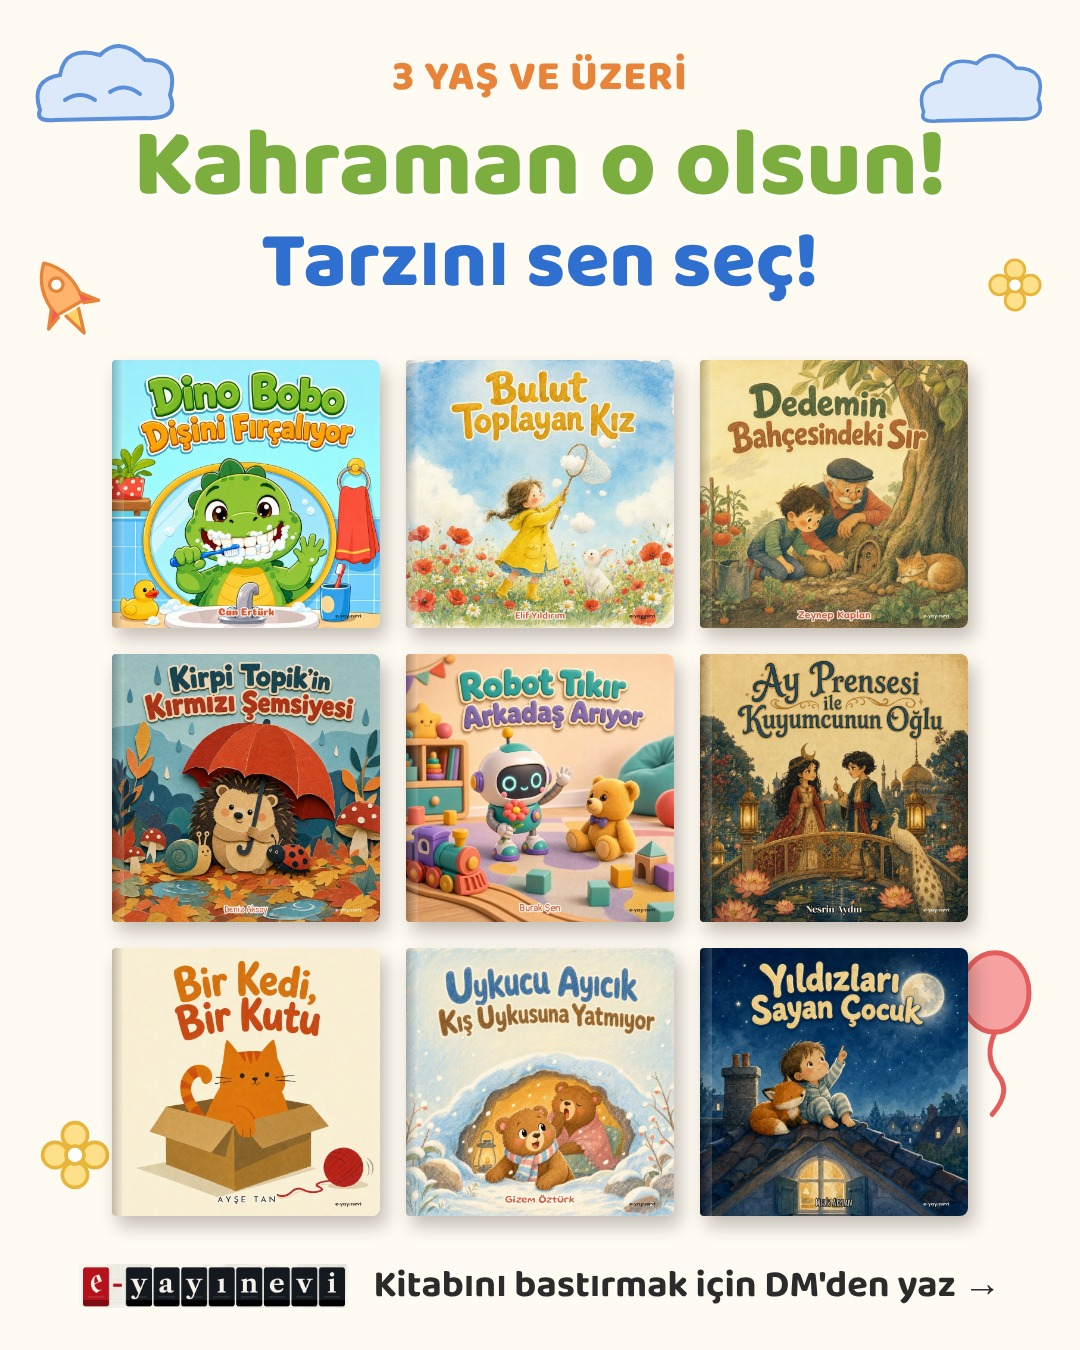
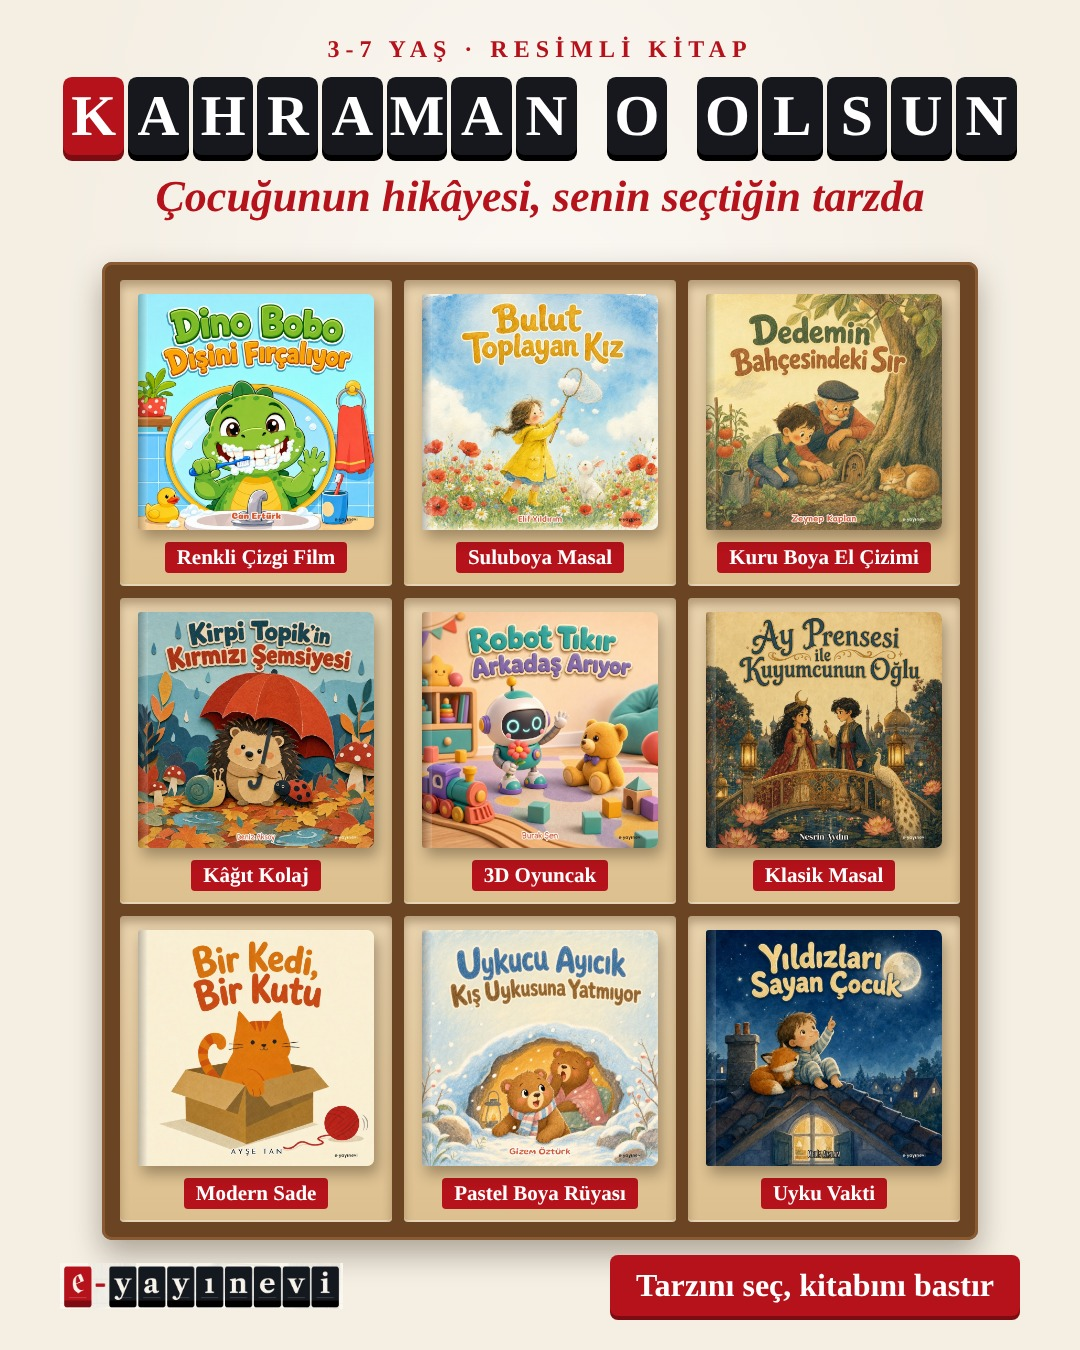
Vitrin: dizgi kasası tasarımı (harf blokları, tarz etiketleri)
Claude-Session: https://claude.ai/code/session_01CDkmKSZuDGcm7bYhjP6ExS

diff --git a/sablon/tarz/vitrin.py b/sablon/tarz/vitrin.py
@@ -14,20 +14,37 @@ DOODLES = """
 <svg style='position:absolute;right:40px;bottom:230px' width='90' height='170' viewBox='0 0 60 120' fill='none' stroke='#E45D5D' stroke-width='3.5' stroke-linecap='round'><ellipse cx='30' cy='30' rx='24' ry='28' fill='#F7A1A1'/><path d='M30 58 Q22 75 32 88 Q42 100 28 116'/></svg>
 <svg style='position:absolute;left:30px;bottom:150px' width='90' height='90' viewBox='0 0 100 100' stroke='#E8B53A' stroke-width='4' fill='#FFE08A'><circle cx='50' cy='28' r='14'/><circle cx='72' cy='50' r='14'/><circle cx='50' cy='72' r='14'/><circle cx='28' cy='50' r='14'/><circle cx='50' cy='50' r='10' fill='#fff'/></svg>
 <svg style='position:absolute;right:30px;top:250px' width='70' height='70' viewBox='0 0 100 100' stroke='#E8B53A' stroke-width='4' fill='#FFE08A'><circle cx='50' cy='28' r='14'/><circle cx='72' cy='50' r='14'/><circle cx='50' cy='72' r='14'/><circle cx='28' cy='50' r='14'/><circle cx='50' cy='50' r='10' fill='#fff'/></svg>"""
-def vitrin(kicker, line1, line2, slugs, foot="Kitabını bastırmak için DM'den yaz →"):
+def tiles(text, size, bg="#16181D", fg="#fff", red_first=False):
+    out = []
+    for i, ch in enumerate(text):
+        if ch == " ":
+            out.append(f"<span style='display:inline-block;width:{size*0.35}px'></span>"); continue
+        b = "#B5121B" if (red_first and i == 0) else bg
+        sh = "#7d0c12" if (red_first and i == 0) else "#000"
+        out.append(f"<span style='display:inline-flex;align-items:center;justify-content:center;width:{size*0.82}px;height:{size*1.05}px;margin:0 2px;background:{b};color:{fg};border-radius:{size*0.12}px;box-shadow:0 {size*0.08}px 0 {sh};font-family:\"Liberation Serif\",serif;font-weight:700;font-size:{size*0.78}px'>{ch}</span>")
+    return "".join(out)
+
+def vitrin(kicker, line1, line2, slugs, foot="Tarzını seç, kitabını bastır"):
+    """Dizgi kasası vitrini: ahşap kasanın gözlerinde kapaklar, altlarında tarz adı; başlık harf bloklarıyla."""
     sq = S[slugs[0]][4] == "3-7"
-    cols = 3; w = 268 if sq else 250; h = w if sq else round(w * 1.5)
-    gap = 26
-    covers = "".join(f"<div style='width:{w}px;height:{h}px;border-radius:4px 8px 8px 4px;overflow:hidden;box-shadow:6px 10px 18px rgba(40,30,20,.28);position:relative'><img src='{C}/kapak-{s}.jpg' style='width:100%;height:100%;object-fit:cover'><div style='position:absolute;left:0;top:0;bottom:0;width:12px;background:linear-gradient(to right,rgba(0,0,0,.22),rgba(255,255,255,.15))'></div></div>" for s in slugs)
-    return f"""<html><head><meta charset=utf-8><style>{FONT}*{{margin:0;box-sizing:border-box}}body{{width:1080px;height:1350px;background:#FFFBF2;position:relative;overflow:hidden;font-family:B,sans-serif}}</style></head><body>
-{DOODLES}
-<div style='position:absolute;top:44px;left:0;right:0;text-align:center'>
- <div style='font-size:42px;font-weight:800;color:#E8833A;letter-spacing:1px'>{kicker}</div>
- <div style='font-size:96px;font-weight:800;color:#7BAE3F;line-height:1;margin-top:8px;text-shadow:3px 3px 0 #fff'>{line1}</div>
- <div style='font-size:80px;font-weight:800;color:#2F6FCF;line-height:1.05;margin-top:6px'>{line2}</div>
+    w = 236 if sq else 244; h = w if sq else round(w * 1.5)
+    cell_w, cell_h = w + 36, h + 70
+    letters = len(line1.replace(" ", ""))
+    tsize = min(78, int(900 / max(letters, 1) / 0.86))
+    cells = "".join(
+        f"<div style='width:{cell_w}px;height:{cell_h}px;background:linear-gradient(#E9D3AE,#DDC08F);box-shadow:inset 0 6px 10px rgba(80,50,20,.35),inset 0 -2px 0 rgba(255,255,255,.4);border-radius:4px;display:flex;flex-direction:column;align-items:center;justify-content:flex-start;padding-top:14px'>"
+        f"<div style='width:{w}px;height:{h}px;border-radius:3px 7px 7px 3px;overflow:hidden;box-shadow:4px 8px 14px rgba(40,25,10,.35);position:relative'><img src='{C}/kapak-{s}.jpg' style='width:100%;height:100%;object-fit:cover'><div style='position:absolute;left:0;top:0;bottom:0;width:10px;background:linear-gradient(to right,rgba(0,0,0,.25),rgba(255,255,255,.15))'></div></div>"
+        f"<div style='margin-top:12px;background:#B5121B;color:#fff;font-family:\"Liberation Serif\",serif;font-weight:700;font-size:21px;padding:3px 12px;border-radius:4px;white-space:nowrap'>{S[s][0]}</div></div>"
+        for s in slugs)
+    return f"""<html><head><meta charset=utf-8><style>*{{margin:0;box-sizing:border-box}}body{{width:1080px;height:1350px;background:#F4EEE3;position:relative;overflow:hidden;font-family:"Liberation Serif",serif;color:#16181D}}</style></head><body>
+<div style='position:absolute;inset:0;background:radial-gradient(ellipse at 50% 30%,rgba(255,255,255,.65),transparent 65%)'></div>
+<div style='position:absolute;top:36px;left:0;right:0;text-align:center'>
+ <div style='font-size:24px;font-weight:700;letter-spacing:6px;color:#B5121B'>{kicker}</div>
+ <div style='margin-top:14px;white-space:nowrap'>{tiles(line1, tsize, red_first=True)}</div>
+ <div style='font-size:44px;font-style:italic;font-weight:700;color:#B5121B;margin-top:16px'>{line2}</div>
 </div>
-<div style='position:absolute;top:{360 if sq else 360}px;left:0;right:0;display:grid;grid-template-columns:repeat({cols},{w}px);gap:{gap}px;justify-content:center'>{covers}</div>
-<div style='position:absolute;bottom:34px;left:0;right:0;display:flex;align-items:center;justify-content:center;gap:24px'>
- <img src='{AS}/wordmark.png' style='height:44px'>
- <span style='font-size:38px;font-weight:700;color:#2B2B2B'>{foot}</span>
+<div style='position:absolute;top:{262 if sq else 268}px;left:50%;transform:translateX(-50%);padding:18px;background:#6B4423;border-radius:10px;box-shadow:0 14px 30px rgba(40,25,10,.35),inset 0 0 0 3px #8A5A33;display:grid;grid-template-columns:repeat(3,{cell_w}px);gap:12px'>{cells}</div>
+<div style='position:absolute;bottom:34px;left:60px;right:60px;display:flex;align-items:center;justify-content:space-between'>
+ <img src='{AS}/wordmark.png' style='height:46px'>
+ <span style='background:#B5121B;color:#fff;font-weight:700;font-size:32px;padding:12px 26px;border-radius:8px;box-shadow:0 4px 0 #7d0c12'>{foot}</span>
 </div></body></html>"""

diff --git a/sablon/tarz/vitrin_1107.py b/sablon/tarz/vitrin_1107.py
@@ -4,8 +4,8 @@ from vitrin import vitrin
 from playwright.sync_api import sync_playwright
 OUT = os.path.abspath(os.path.join(os.path.dirname(__file__), "../../2026-11/tarz"))
 J = {
- "v-37": vitrin("3 YAŞ VE ÜZERİ", "Kahraman o olsun!", "Tarzını sen seç!", ["renkli-cizgi-film","suluboya-masal","kuru-boya","kagit-kolaj","3d-oyuncak","klasik-masal","modern-sade","pastel-boya-ruyasi","uyku-vakti"]),
- "v-genc": vitrin("GENÇ VE YETİŞKİN OKURLAR", "Romanın hazır mı?", "Kapağını sen seç!", ["macera-cizgi-roman","sinematik","grafik-roman","gerilim","edebi-minimal","minyatur"]),
+ "v-37": vitrin("3-7 YAŞ · RESİMLİ KİTAP", "KAHRAMAN O OLSUN", "Çocuğunun hikâyesi, senin seçtiğin tarzda", ["renkli-cizgi-film","suluboya-masal","kuru-boya","kagit-kolaj","3d-oyuncak","klasik-masal","modern-sade","pastel-boya-ruyasi","uyku-vakti"]),
+ "v-genc": vitrin("GENÇ · YETİŞKİN · ROMAN", "ROMANIN HAZIR MI?", "Kapağını ve tarzını sen seç", ["macera-cizgi-roman","sinematik","grafik-roman","gerilim","edebi-minimal","minyatur"]),
 }
 with sync_playwright() as p:
     b = p.chromium.launch(); pg = b.new_page(viewport={"width":1080,"height":1350})
